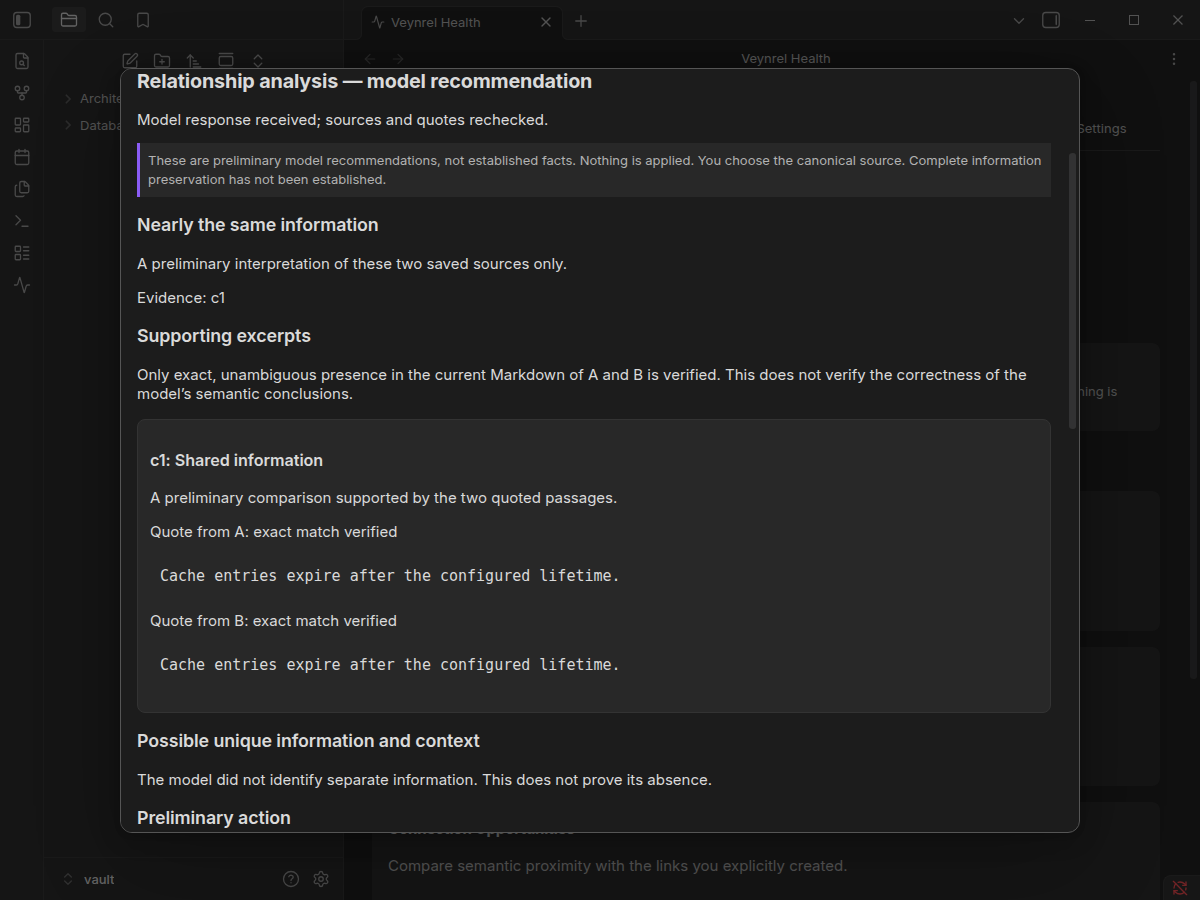
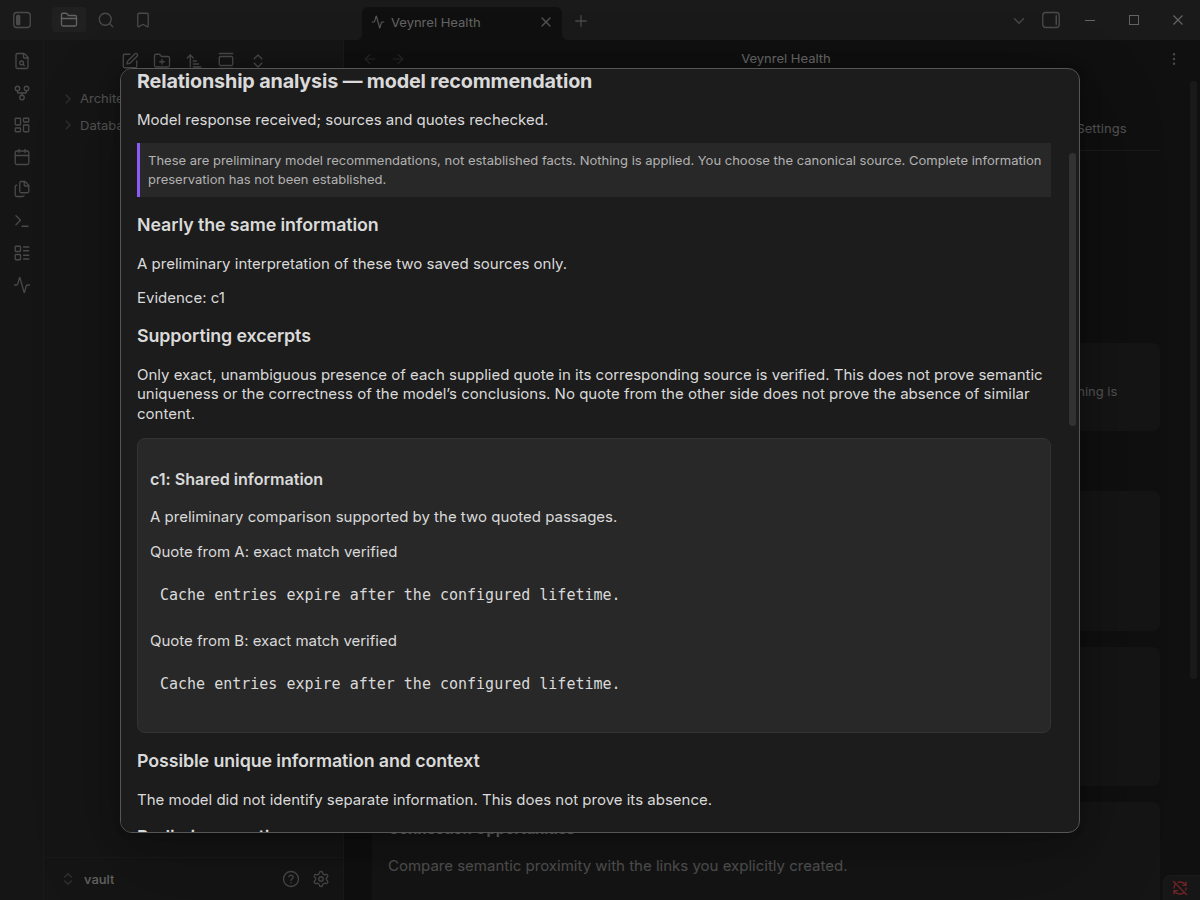
fix: validate relationship evidence by claim type

Changed region(s): [[0.1233, 0.4978, 0.5242, 0.7778], [0.0925, 0.8089, 0.5858, 0.9333], [0.0925, 0.4044, 0.8633, 0.4667]]

diff --git a/consolidation/relationshipPrompt.ts b/consolidation/relationshipPrompt.ts
@@ -16,11 +16,15 @@ Rules:
 7. Recommendations are preliminary possibilities, not facts, instructions to apply, executable operations or Markdown diffs. Do not promise information preservation. Do not produce percentages, accuracy/confidence/overlap scores.
 8. If choosing a source, changing links/embeds, splitting a section or merging needs other notes, tags or dependencies checked, state this limitation; those were NOT analyzed. Any absence/uniqueness judgment is only relative to these two saved texts.
 Return exactly one JSON object, no fences, with these keys and no extra keys:
-{"relation":"one enum value","explanation":{"text":"why this relation","evidence":["c1"]},"claims":[{"id":"c1","kind":"one claim kind","text":"one substantive finding","quoteA":"exact contiguous excerpt from A","quoteB":"exact contiguous excerpt from B"}],"recommendation":{"action":"one action","reason":"why this preliminary action, preserving context","evidence":["c1"]},"alternatives":[{"action":"a different action","reason":"why justified","evidence":["c1"]}],"limitations":["uncertainty and missing checks"]}
+{"relation":"one enum value","explanation":{"text":"why this relation","evidence":["c1"]},"claims":[{"id":"c1","kind":"context_a","text":"one substantive finding","quoteA":"exact contiguous excerpt from A","quoteB":null}],"recommendation":{"action":"one action","reason":"why this preliminary action, preserving context","evidence":["c1"]},"alternatives":[{"action":"a different action","reason":"why justified","evidence":["c1"]}],"limitations":["uncertainty and missing checks"]}
 relation: ${RELATIONS.join(", ")}.
 action: ${ACTIONS.join(", ")}.
 claim kind: ${CLAIM_KINDS.join(", ")}.
-Every substantive conclusion, including possible unique content, contextual examples, standalone sections and each action/alternative, must cite claim IDs. Every claim must have an EXACT quote from EACH note, preserving whitespace, punctuation and source Markdown. Quotes must each occur exactly once in that note; use wider context for repeated snippets. A quote may show the nearest comparable passage, but its presence does not prove semantic uniqueness or global absence.
+Every substantive conclusion, including possible unique content, contextual examples, standalone sections and each action/alternative, must cite claim IDs. Both quoteA and quoteB keys are always required; their values are exact excerpt strings or JSON null according to the claim kind:
+- shared, conflict, version_difference, comparison: BOTH quoteA and quoteB must be nonempty exact excerpts from their respective notes.
+- unique_a, context_a, standalone_a: quoteA is required; quoteB may be null.
+- unique_b, context_b, standalone_b: quoteB is required; quoteA may be null.
+Only include an opposite-side quote when it meaningfully supports the claim. Otherwise use null, never an arbitrary passage, empty string, the string "null", or an omitted key. Every supplied quote, including an optional one, must match its source exactly and occur exactly once, preserving whitespace, punctuation and Markdown. Use wider context for repeated snippets. Literal presence does not prove semantic uniqueness, absence of equivalent information in the other note, or correctness of interpretation. A null quote means no excerpt supplied, not proof of absence.
 At most 8 claims, 3 alternatives, 8 limitations. Prose fields at most 1600 characters; quotes at most 1200 characters; IDs at most 32. Never fabricate or paraphrase a quote. If exact evidence is unavailable, use insufficient_context with empty claims and evidence lists, manual_review/no_change, and an explanation of the limitation.
 For same_information/partial_overlap include a shared claim. same_information must not include unique/context/standalone claims; choose partial_overlap or related_distinct when those matter. Conflicts/version differences require conflicting or insufficient_context. conflicting/unrelated/insufficient_context allow only manual_review or no_change. Merge/embed considerations require same_information/partial_overlap and cited shared evidence. Atomization requires cited standalone_a/standalone_b evidence. Alternatives are optional and must not duplicate the primary action.`;
 }

diff --git a/consolidation/relationshipContract.test.ts b/consolidation/relationshipContract.test.ts
@@ -7,6 +7,42 @@ describe("relationship response contract (scripted outputs, not model quality)",
   it.each(cases)("accepts supported, bounded $name output", fixture => {
     expect(validateRelationshipResponse(JSON.stringify(fixture.response), fixture.a, fixture.b)).toEqual(fixture.response);
   });
+  it("supports A's contextual example without an arbitrary quote from B", () => {
+    const f = cases.find(c => c.name === "theory_and_context")!;
+    const result = validateRelationshipResponse(JSON.stringify(f.response), f.a, f.b);
+    expect(result.claims[1]).toMatchObject({ kind: "context_a", quoteA: "In our payment test, the cache key also includes the tenant ID.", quoteB: null });
+    expect(result.claims[0]).toMatchObject({ kind: "shared", quoteA: f.b, quoteB: f.b });
+  });
+  it.each(["unique_a", "context_a", "standalone_a", "unique_b", "context_b", "standalone_b"])("validates required and optional sides of %s", kind => {
+    const f = structuredClone(cases.find(c => c.name === "theory_and_context")!);
+    const claim = f.response.claims[1]; claim.kind = kind;
+    const required = kind.endsWith("_a") ? "quoteA" : "quoteB", optional = required === "quoteA" ? "quoteB" : "quoteA";
+    claim[required] = required === "quoteA" ? f.a : f.b; claim[optional] = null;
+    const validate = () => validateRelationshipResponse(JSON.stringify(f.response), f.a, f.b);
+    expect(validate().claims[1][optional]).toBeNull();
+    claim[optional] = optional === "quoteA" ? f.a : f.b;
+    expect(validate().claims[1][optional]).toBe(claim[optional]);
+    claim[optional] = "fabricated optional evidence";
+    expect(validate).toThrow("unverifiedEvidence");
+    claim[optional] = null; claim[required] = null;
+    expect(validate).toThrow(RelationshipError);
+  });
+  it.each(["near_duplicates", "contradiction", "versions", "unrelated"])("still requires exact quotes on both sides of %s", name => {
+    const f = structuredClone(cases.find(c => c.name === name)!);
+    const validate = () => validateRelationshipResponse(JSON.stringify(f.response), f.a, f.b);
+    expect(validate()).toEqual(f.response);
+    for (const side of ["quoteA", "quoteB"] as const) {
+      const original = f.response.claims[0][side];
+      f.response.claims[0][side] = null; expect(validate).toThrow(RelationshipError);
+      f.response.claims[0][side] = "fabricated conflict or comparison quote"; expect(validate).toThrow("unverifiedEvidence");
+      f.response.claims[0][side] = original;
+    }
+  });
+  it.each([undefined, "", false, 0, "null"])("requires explicit null rather than %s for an absent optional quote", quoteB => {
+    const f = cases.find(c => c.name === "theory_and_context")!;
+    const response = { ...f.response, claims: [f.response.claims[0], { ...f.response.claims[1], quoteB }] };
+    expect(() => validateRelationshipResponse(JSON.stringify(response), f.a, f.b)).toThrow(RelationshipError);
+  });
   it.each(["not json", "```json\n{}\n```", "null", "[]", "{}", JSON.stringify({ confidence: 100 })])("rejects invalid JSON/schema: %s", raw => {
     expect(() => validateRelationshipResponse(raw, "A", "B")).toThrow(RelationshipError);
   });

diff --git a/consolidation/relationshipContract.ts b/consolidation/relationshipContract.ts
@@ -3,13 +3,14 @@ export const ACTIONS = ["consider_merge", "consider_embed_b_in_a", "consider_emb
 export const CLAIM_KINDS = ["shared", "unique_a", "unique_b", "context_a", "context_b", "standalone_a", "standalone_b", "conflict", "version_difference", "comparison"] as const;
 export type Relation = typeof RELATIONS[number];
 export type Action = typeof ACTIONS[number];
-export interface RelationshipClaim {
+export type RelationshipClaim = {
   id: string;
-  kind: typeof CLAIM_KINDS[number];
   text: string;
-  quoteA: string;
-  quoteB: string;
-}
+} & (
+  | { kind: "shared" | "conflict" | "version_difference" | "comparison"; quoteA: string; quoteB: string }
+  | { kind: "unique_a" | "context_a" | "standalone_a"; quoteA: string; quoteB: string | null }
+  | { kind: "unique_b" | "context_b" | "standalone_b"; quoteA: string | null; quoteB: string }
+);
 export interface RelationshipRecommendation { action: Action; reason: string; evidence: string[] }
 export interface RelationshipResult {
   relation: Relation;
@@ -53,6 +54,9 @@ function exactQuote(value: unknown, source: string): string {
   requireValid(start >= 0 && source.indexOf(quote, start + 1) === -1, "unverifiedEvidence");
   return quote;
 }
+function optionalQuote(value: unknown, source: string): string | null {
+  return value === null ? null : exactQuote(value, source);
+}
 
 /** Exact source presence is verified; the model's interpretation is never verified fact. */
 export function validateRelationshipResponse(raw: string, a: string, b: string): RelationshipResult {
@@ -62,10 +66,18 @@ export function validateRelationshipResponse(raw: string, a: string, b: string):
   const root = object(parsed, ["relation", "explanation", "claims", "recommendation", "alternatives", "limitations"]);
   const relation = member(root.relation, RELATIONS);
   const ids = new Set<string>();
-  const claims = array(root.claims, 8).map(value => {
+  const claims = array(root.claims, 8).map((value): RelationshipClaim => {
     const claim = object(value, ["id", "kind", "text", "quoteA", "quoteB"]);
     const id = text(claim.id, 32); requireValid(!ids.has(id)); ids.add(id);
-    return { id, kind: member(claim.kind, CLAIM_KINDS), text: prose(claim.text), quoteA: exactQuote(claim.quoteA, a), quoteB: exactQuote(claim.quoteB, b) };
+    const kind = member(claim.kind, CLAIM_KINDS), common = { id, text: prose(claim.text) };
+    switch (kind) {
+      case "unique_a": case "context_a": case "standalone_a":
+        return { ...common, kind, quoteA: exactQuote(claim.quoteA, a), quoteB: optionalQuote(claim.quoteB, b) };
+      case "unique_b": case "context_b": case "standalone_b":
+        return { ...common, kind, quoteA: optionalQuote(claim.quoteA, a), quoteB: exactQuote(claim.quoteB, b) };
+      default:
+        return { ...common, kind, quoteA: exactQuote(claim.quoteA, a), quoteB: exactQuote(claim.quoteB, b) };
+    }
   });
   requireValid(relation === "insufficient_context" || claims.length > 0, "unverifiedEvidence");
   const evidence = (value: unknown): string[] => {

diff --git a/i18n.ts b/i18n.ts
@@ -70,7 +70,7 @@ const RU: Record<string, string> = {
   "@relationship.provisional": "Это предварительные рекомендации модели, не доказанные факты. Они ничего не применяют. Выбор основного источника остаётся за вами. Полная сохранность информации не подтверждена.",
   "@relationship.references": "Основания: {ids}",
   "@relationship.evidence": "Подтверждающие фрагменты",
-  "@relationship.evidenceScope": "Проверено только точное и однозначное присутствие цитат в актуальном Markdown A и B. Это не проверка правильности смысловых выводов модели.",
+  "@relationship.evidenceScope": "Проверено только точное и однозначное присутствие каждой приведённой цитаты в соответствующем исходнике. Это не доказывает смысловую уникальность или правильность выводов модели. Отсутствие цитаты с другой стороны не доказывает отсутствия похожего содержания.",
   "@relationship.verifiedQuote": "Цитата из {side}: точное совпадение проверено",
   "@relationship.noEvidence": "Достаточных подтверждений нет; уверенное решение не показано.",
   "@relationship.unique": "Возможная уникальная информация и контекст",
@@ -1106,7 +1106,7 @@ const EN: Record<string, string> = {
   "@relationship.provisional": "These are preliminary model recommendations, not established facts. Nothing is applied. You choose the canonical source. Complete information preservation has not been established.",
   "@relationship.references": "Evidence: {ids}",
   "@relationship.evidence": "Supporting excerpts",
-  "@relationship.evidenceScope": "Only exact, unambiguous presence in the current Markdown of A and B is verified. This does not verify the correctness of the model’s semantic conclusions.",
+  "@relationship.evidenceScope": "Only exact, unambiguous presence of each supplied quote in its corresponding source is verified. This does not prove semantic uniqueness or the correctness of the model’s conclusions. No quote from the other side does not prove the absence of similar content.",
   "@relationship.verifiedQuote": "Quote from {side}: exact match verified",
   "@relationship.noEvidence": "Insufficient supporting evidence; no confident conclusion is shown.",
   "@relationship.unique": "Possible unique information and context",

diff --git a/semantic/semanticSearchModal.test.ts b/semantic/semanticSearchModal.test.ts
@@ -1,6 +1,7 @@
 import { readFileSync } from "node:fs";
 import { describe, expect, it, vi } from "vitest";
 import type { RefinedSearchUpdate } from "../rerank/types";
+import relationshipCases from "../tests/fixtures/relationships.json";
 
 const mocks = vi.hoisted(() => {
   interface FakeEvent {
@@ -961,6 +962,30 @@ describe("read-only Pair Inspector UI", () => {
     f.action("dismiss").trigger("click"); expect(f.stage()).toBe("dismissed");
     expect(f.app.vault.modify).not.toHaveBeenCalled(); expect(f.app.vault.create).not.toHaveBeenCalled();
     f.modal.close(); expect(f.listeners.size).toBe(0); setLanguage("ru");
+  });
+
+  it.each(["ru", "en"] as const)("renders only supplied quotes for contextual, unique and conflicting claims in %s", async language => {
+    const { setLanguage, t } = await import("../i18n"); setLanguage(language);
+    for (const name of ["theory_and_context", "partial_overlap", "contradiction"]) {
+      const item = relationshipCases.find(c => c.name === name)!;
+      const f = await fixture(true);
+      f.bodies.set("one/Same.md", item.a); f.bodies.set("two/Same.md", item.b);
+      f.complete.mockResolvedValue(JSON.stringify(item.response));
+      f.modal.open(); await flush(); f.action("analyze").trigger("click"); await flush();
+      expect(f.complete).not.toHaveBeenCalled(); f.action("confirm").trigger("click"); await flush();
+      expect(f.stage()).toBe("result"); expect(f.complete).toHaveBeenCalledOnce();
+      const cards = f.content.findByClass("ai-semantic-duplicate-card"); expect(cards).toHaveLength(item.response.claims.length);
+      item.response.claims.forEach((claim, i) => {
+        const quotes = cards[i].findByTag("pre").map(el => el.text);
+        expect(quotes).toEqual([claim.quoteA, claim.quoteB].filter(quote => quote !== null));
+        for (const [side, quote] of [["A", claim.quoteA], ["B", claim.quoteB]] as const) {
+          expect(cards[i].findByTag("p").some(el => el.text === t("@relationship.verifiedQuote", { side }))).toBe(quote !== null);
+        }
+      });
+      expect(f.content.findByTag("p").some(el => el.text === t("@relationship.evidenceScope"))).toBe(true);
+      expect(f.app.vault.modify).not.toHaveBeenCalled(); expect(f.app.vault.create).not.toHaveBeenCalled(); f.modal.close();
+    }
+    setLanguage("ru");
   });
 
   it("invalidates consent/results on selected file and model changes, and cancels when closing", async () => {

diff --git a/consolidation/relationshipView.ts b/consolidation/relationshipView.ts
@@ -44,7 +44,8 @@ export function renderRelationshipView(container: HTMLElement, session: Relation
     const card = container.createDiv({ cls: "ai-semantic-duplicate-card" });
     card.createEl("h5", { text: `${claim.id}: ${tr(`@relationship.kind.${claim.kind}`)}` });
     card.createEl("p", { text: claim.text });
-    for (const [side, quote] of [["A", claim.quoteA], ["B", claim.quoteB]]) {
+    for (const [side, quote] of [["A", claim.quoteA], ["B", claim.quoteB]] as const) {
+      if (quote === null) continue;
       card.createEl("p", { text: tr("@relationship.verifiedQuote", { side }) });
       card.createEl("pre", { cls: "ai-pair-source", text: quote, attr: { tabindex: "0" } });
     }

diff --git a/docs/relationship-analyzer-v1.md b/docs/relationship-analyzer-v1.md
@@ -51,11 +51,24 @@ Merge, Undo buttons. The user chooses any canonical source; information preserva
 has not been proven. Contextual examples should remain in their original context;
 atomization requires evidence of an independently useful section.
 
-Every substantive claim must contain one contiguous literal quote from **each**
-source, and explanations/actions reference these claims. Each quote must occur
-exactly once in the corresponding current Markdown. A nearest comparable passage
-can contextualize a claimed difference, but cannot prove uniqueness or absence.
-The entire response is refused on missing, invented, repeated or wrong-source quotes,
+Every substantive claim carries evidence according to its type; explanations/actions
+reference these claims. Both `quoteA` and `quoteB` keys are always present. An absent
+optional quote is JSON `null`, not an omitted key, empty string or the string `"null"`.
+
+| Claim kind | `quoteA` | `quoteB` |
+| --- | --- | --- |
+| `shared`, `conflict`, `version_difference`, `comparison` | Required string | Required string |
+| `unique_a`, `context_a`, `standalone_a` | Required string | String or `null` |
+| `unique_b`, `context_b`, `standalone_b` | String or `null` | Required string |
+
+Every supplied quote, including an optional opposite-side quote, must occur exactly
+once in its corresponding current Markdown. The opposite-side quote should only
+be supplied when meaningful; a contextual example in A does not need an arbitrary
+passage from B. The UI renders only supplied quotes, without a placeholder or a
+verified label for a `null` side. Literal presence does **not** prove semantic
+uniqueness, absence of similar information elsewhere or correctness of interpretation;
+`null` means no excerpt supplied, not proof of absence.
+The entire response is refused on missing required, invented, repeated or wrong-source quotes,
 unknown fields, dangling references, invalid JSON or inconsistent actions. No raw
 invalid response is displayed. Exact source presence is verified; **semantic
 interpretation, classification accuracy and information completeness are not**.
@@ -104,7 +117,9 @@ example, an independently useful section beyond the inspector preview, contradic
 version differences, unrelated topics and insufficient context. These exercise the
 contract/UI; they do not measure how a real model would classify those notes.
 
-Tests cover exact payload/explicit consent, quote validation, malformed responses,
+Tests cover exact payload/explicit consent, quote validation by claim type (including
+contextual examples with no opposite-side quote, missing required quotes, fabricated
+optional quotes and bilateral contradictions), malformed responses,
 input bounds, files/settings changing before/during/after a request, cancellation,
 close/reopen, double-clicks, safe errors, no retries, no writes and existing
 Pair Inspector/Discover/Decisions regressions. The shared HTTP transport is tested
@@ -112,10 +127,9 @@ with a fake `requestUrl`; native testing replaces only the completion dependency
 
 Run `npm test`, `npm run typecheck`, `npm run lint`, `npm run build`,
 `npm run audit:proposals` and `git diff --check`.
-Verified on 2026-10-16: **2,992 tests / 118 files**, typecheck, lint, build and
+Verified on 2026-10-16: **3,010 tests / 118 files**, typecheck, lint, build and
 diff check passed. Lint retains only the existing streaming-fetch advisory in
-`api.ts`. The proposal mutation audit passed **5/5**; a later sandbox attempt
-returned empty child-process output and required a standalone host rerun.
+`api.ts`. The proposal mutation audit passed **5/5** in a standalone host run.
 For isolated Linux Obsidian acceptance, after building run:
 
 ```sh
@@ -125,11 +139,13 @@ node scripts/pair-inspector-native.mjs /tmp/pair-inspector-relationship-fresh --
 The output directory must not exist. This reuses PR #79's native Discover/Pair
 Inspector harness and synthetic vault, with a fake LLM transport and no paid calls.
 The [native report](relationship-analyzer-evidence/native.json) records results
-and deliberate refusals: **18 inspector checks + 45 analyzer checks**, on Linux
+and deliberate refusals: **18 inspector checks + 51 analyzer checks**, on Linux
 Obsidian package 1.13.7-2 / Electron 43.6.0, with asset SHA-256 hashes and
 zero plugin Markdown writes/network counters. Scripted contradiction/version responses choose manual
-review; unrelated/insufficient-context responses choose no change. Invented quotes
-and invalid JSON produce no recommendation; oversized input produces no request.
+review; unrelated/insufficient-context responses choose no change. Missing required
+quotes, fabricated optional quotes and invalid JSON produce no recommendation;
+oversized input produces no request. Native checks also verify that contextual and
+unique claims render only their supplied quotes while contradictions retain both sides.
 
 ![Russian consent on a narrow desktop viewport](relationship-analyzer-evidence/consent-ru.png)
 ![English preliminary result](relationship-analyzer-evidence/result-en.png)
